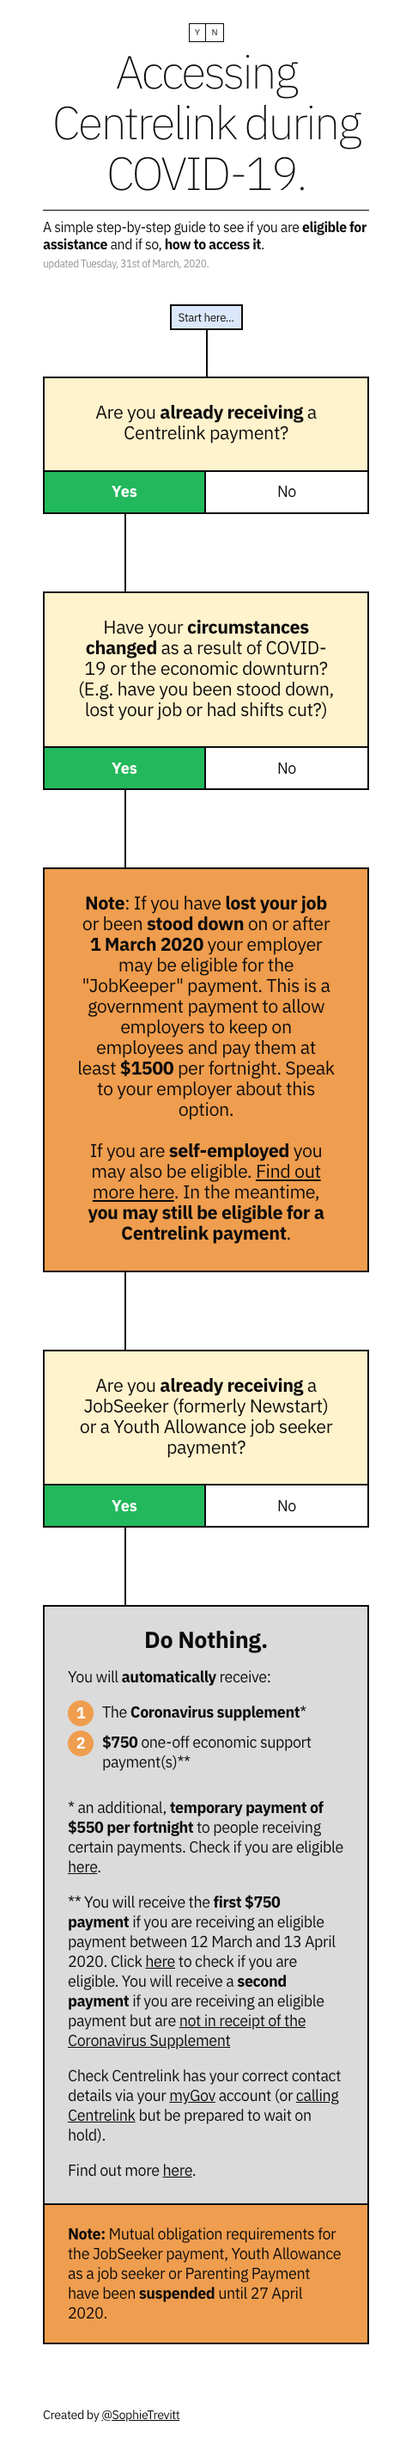
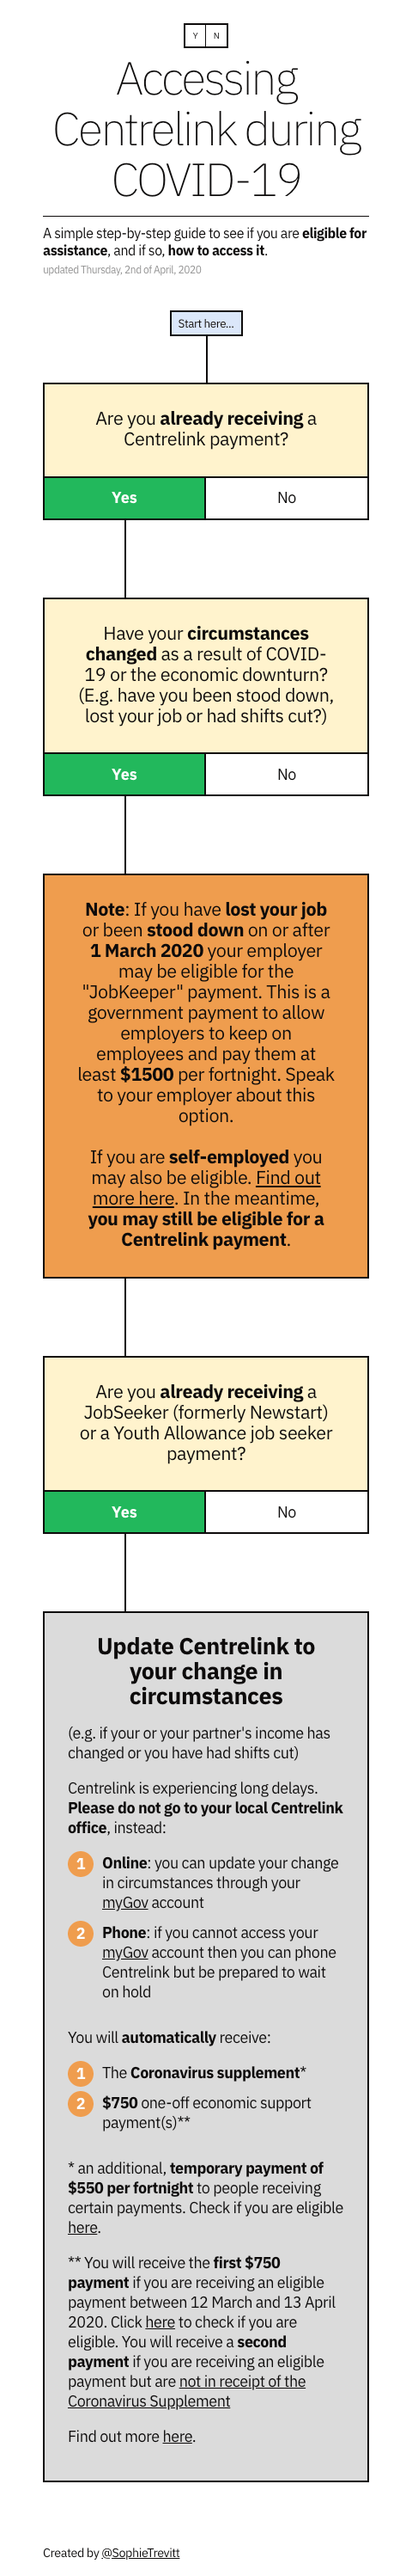
further updates

diff --git a/index.html b/index.html
@@ -17,7 +17,6 @@
 	<meta property="og:description" content="A simple step-by-step guide to see if you are eligible for assistance, and if so, how to access it.">
     <meta property="og:image" content="https://canigetcentrelink.com.au/share.png">
     <link href="https://fonts.googleapis.com/css2?family=IBM+Plex+Sans:wght@200;400;700&display=hide" rel="stylesheet">
-    <script src="https://code.jquery.com/jquery-3.4.1.min.js" integrity="sha256-CSXorXvZcTkaix6Yvo6HppcZGetbYMGWSFlBw8HfCJo=" crossorigin="anonymous"></script>
 	<style>
 *, 
 *:before, 
@@ -62,19 +61,18 @@ margin-bottom:2rem}
 
 .icon {
 display:flex;
-width:41px;
+width:52px;
 margin:1rem auto .25rem;
-border:1px solid #0D0B0B;
+border:2px solid #0D0B0B;
 text-align:center;
 font-size:10px;
 opacity:1}
 
 .icon span {
-width:20px;
-height:20px;
-line-height:20px;
-background:#fff;
-font-weight:400}
+width:25px;
+height:25px;
+line-height:25px;
+background:#fff}
 
 .icon span:first-child {
 border-right:1px solid #0D0B0B}
@@ -147,7 +145,6 @@ background:#DBE7FA;
 font-size:.75rem;
 z-index:1;
 width:85px;
-font-weight:400;
 white-space:nowrap}
 
 .q p {
@@ -157,7 +154,6 @@ padding:1.5rem 2rem 1.75rem;
 background:#FFF3CD;
 border:2px solid #0D0B0B;
 z-index:1;
-font-weight:400;
 line-height:1.15}
 
 .q p.msg {
@@ -302,6 +298,7 @@ margin:.5rem 0;
 display:none;
 border:2px solid #0D0B0B;
 padding:.75rem;
+font-size:.75rem;
 text-decoration:none;
 text-transform:uppercase;
 transition:background .25s}
@@ -317,18 +314,19 @@ color:#fff;
 background:#0D0B0B}
 
 .reset {
-font-size:.75rem}
-
-.reset a {
-text-decoration:underline}
+font-size:.75rem;
+opacity:.5}
 
 .reset a:hover {
-opacity:.5}
+text-decoration:underline}
 
 footer {
 position:relative;
 margin-top:-4rem;
 font-size:.8rem}
+
+[data-state="begun"] footer {
+margin-top:0rem}
 
 footer p {
 margin-bottom:0}
@@ -344,7 +342,7 @@ margin-bottom:0}
 
 }
 
-@media all and (max-width:360px){
+@media all and (max-width:395px){
 
     h1 {
     font-size:2.5rem}
@@ -365,6 +363,9 @@ margin-bottom:0}
     footer {
     font-size:.7rem}
 
+    footer span {
+    display:none}
+
 }
 
     </style>
@@ -381,7 +382,7 @@ margin-bottom:0}
 
             <p>A simple step-by-step guide to see if you are <b>eligible for assistance</b>, and if so, <b>how to access it</b>.</p>
 
-            <p class="updated">updated Wednesday, 1st of April, 2020</p>
+            <p class="updated">updated Thursday, 2nd of April, 2020</p>
 
         </header>
 
@@ -487,9 +488,20 @@ margin-bottom:0}
 
             </div>
 
+
+
             <div class="results" data-id="s-y-y-y" data-end="yes">
 
-                <h3>Do Nothing.</h3>
+                <h3>Update Centrelink to your change in circumstances</h3>
+
+                <p>(e.g. if your or your partner's income has changed or you have had shifts cut)</p>  
+
+                <p>Centrelink is experiencing long delays. <b>Please do not go to your local Centrelink office</b>, instead:</p>
+
+                <ol>
+                    <li><b>Online</b>: you can update your change in circumstances through your <a href="https://my.gov.au/">myGov</a> account</li>
+                    <li><b>Phone</b>: if you cannot access your <a href="https://my.gov.au/">myGov</a> account then you can phone Centrelink but be prepared to wait on hold</li>
+                </ol>
 
                 <p>You will <b>automatically</b> receive:</p>
 
@@ -502,15 +514,7 @@ margin-bottom:0}
 
                 <p>** You will receive the <b>first $750 payment</b> if you are receiving an eligible payment between 12 March and 13 April 2020. Click <a href="https://www.dss.gov.au/about-the-department/coronavirus-covid-19-information-and-support#fir">here</a> to check if you are eligible. You will receive a <b>second payment</b> if you are receiving an eligible payment but are <a href="https://www.dss.gov.au/about-the-department/coronavirus-covid-19-information-and-support#sec)">not in receipt of the Coronavirus Supplement</a></p>
 
-                <p>Check Centrelink has your correct contact details via your <a href="https://my.gov.au">myGov</a> account (or <a href="https://www.servicesaustralia.gov.au/individuals/contact-us/phone-us#centrelink">calling Centrelink</a> but be prepared to wait on hold).</p>
-
                 <p>Find out more <a href="http://ejaustralia.org.au/self-help/">here</a>.</p>
-
-                <div class="flag">
-
-                    <p>Note: <b>Mutual obligation</b> requirements for the JobSeeker payment, Youth Allowance as a job seeker or Parenting Payment have been <b>suspended</b> until 27 April 2020.</p> 
-
-                </div>
 
             </div> 
 
@@ -577,7 +581,7 @@ margin-bottom:0}
         <footer>
             
             <p>Go to <a href="https://www.servicesaustralia.gov.au/individuals/centrelink">Centrelink</a> →<br>
-            More help & info available at <a href="http://ejaustralia.org.au/self-help/">Economic Justice Australia</a> →<br>
+            More <span>help & info available</span> at <a href="http://ejaustralia.org.au/self-help/">Economic Justice Australia</a> →<br>
             Latest COVID-19 info from the <a href="https://www.health.gov.au/news/health-alerts/novel-coronavirus-2019-ncov-health-alert">Department of Health</a> →</p>
             <p>Created by <a href="https://twitter.com/SophieTrevitt">@SophieTrevitt</a></p>
 
@@ -589,8 +593,7 @@ margin-bottom:0}
 
 'use strict';
 
-var $top = $('html, body'),
-    $body = document.querySelector('body'),
+var $body = document.querySelector('body'),
     $start = document.querySelector('[data-id="s"]'),
     $questions = document.querySelectorAll('.q'),
     $download = document.querySelector('.download'),
@@ -627,7 +630,8 @@ document
                 $next = document.querySelector('[data-id="'+next+'"]')
 
             // SHOW
-            $next.setAttribute('data-show','yes')
+            $next.setAttribute('data-show','yes');
+            $body.setAttribute('data-state','begun');
 
             if ($next.getAttribute('class') == 'results'){
 
@@ -644,12 +648,9 @@ document
             } 
 
             //CLEAN UP NOT CURRENT!
-            cleanOtherOptions(next)
-
-            //SCROLL TO
-            $top.animate({ 
-                scrollTop: getOffsetTop($next)-40 
-            }, 750)
+           cleanOtherOptions(next)
+           scroll.animateScroll(getOffsetTop($next)-0)
+           
     })
 })
 
@@ -671,6 +672,8 @@ document
     .querySelector('.reset a')
     .addEventListener('click', function(e){
 
+        scroll.animateScroll(0)
+
         document
             .querySelectorAll('[data-show="yes"]')
             .forEach(function ($node,i){
@@ -680,24 +683,24 @@ document
 
         $body.removeAttribute('data-result');
         $body.removeAttribute('data-end');
+        $body.removeAttribute('data-state')
         $start.setAttribute('class','q');
-
-        $top.animate({ 
-            scrollTop: 0 
-        }, 250)
+        
 })
 
+
+/*! smooth-scroll v16.1.2 | (c) 2020 Chris Ferdinandi | MIT License | http://github.com/cferdinandi/smooth-scroll */
+window.Element&&!Element.prototype.closest&&(Element.prototype.closest=function(e){var t,n=(this.document||this.ownerDocument).querySelectorAll(e),o=this;do{for(t=n.length;0<=--t&&n.item(t)!==o;);}while(t<0&&(o=o.parentElement));return o}),(function(){if("function"==typeof window.CustomEvent)return;function e(e,t){t=t||{bubbles:!1,cancelable:!1,detail:void 0};var n=document.createEvent("CustomEvent");return n.initCustomEvent(e,t.bubbles,t.cancelable,t.detail),n}e.prototype=window.Event.prototype,window.CustomEvent=e})(),(function(){for(var r=0,e=["ms","moz","webkit","o"],t=0;t<e.length&&!window.requestAnimationFrame;++t)window.requestAnimationFrame=window[e[t]+"RequestAnimationFrame"],window.cancelAnimationFrame=window[e[t]+"CancelAnimationFrame"]||window[e[t]+"CancelRequestAnimationFrame"];window.requestAnimationFrame||(window.requestAnimationFrame=function(e,t){var n=(new Date).getTime(),o=Math.max(0,16-(n-r)),a=window.setTimeout((function(){e(n+o)}),o);return r=n+o,a}),window.cancelAnimationFrame||(window.cancelAnimationFrame=function(e){clearTimeout(e)})})(),(function(e,t){"function"==typeof define&&define.amd?define([],(function(){return t(e)})):"object"==typeof exports?module.exports=t(e):e.SmoothScroll=t(e)})("undefined"!=typeof global?global:"undefined"!=typeof window?window:this,(function(q){"use strict";var I={ignore:"[data-scroll-ignore]",header:null,topOnEmptyHash:!0,speed:500,speedAsDuration:!1,durationMax:null,durationMin:null,clip:!0,offset:0,easing:"easeInOutCubic",customEasing:null,updateURL:!0,popstate:!0,emitEvents:!0},F=function(){var n={};return Array.prototype.forEach.call(arguments,(function(e){for(var t in e){if(!e.hasOwnProperty(t))return;n[t]=e[t]}})),n},r=function(e){"#"===e.charAt(0)&&(e=e.substr(1));for(var t,n=String(e),o=n.length,a=-1,r="",i=n.charCodeAt(0);++a<o;){if(0===(t=n.charCodeAt(a)))throw new InvalidCharacterError("Invalid character: the input contains U+0000.");1<=t&&t<=31||127==t||0===a&&48<=t&&t<=57||1===a&&48<=t&&t<=57&&45===i?r+="\\"+t.toString(16)+" ":r+=128<=t||45===t||95===t||48<=t&&t<=57||65<=t&&t<=90||97<=t&&t<=122?n.charAt(a):"\\"+n.charAt(a)}return"#"+r},L=function(){return Math.max(document.body.scrollHeight,document.documentElement.scrollHeight,document.body.offsetHeight,document.documentElement.offsetHeight,document.body.clientHeight,document.documentElement.clientHeight)},x=function(e){return e?(t=e,parseInt(q.getComputedStyle(t).height,10)+e.offsetTop):0;var t},H=function(e,t,n,o){if(t.emitEvents&&"function"==typeof q.CustomEvent){var a=new CustomEvent(e,{bubbles:!0,detail:{anchor:n,toggle:o}});document.dispatchEvent(a)}};return function(o,e){var A,a,O,C,M={};M.cancelScroll=function(e){cancelAnimationFrame(C),C=null,e||H("scrollCancel",A)},M.animateScroll=function(i,c,e){M.cancelScroll();var s=F(A||I,e||{}),u="[object Number]"===Object.prototype.toString.call(i),t=u||!i.tagName?null:i;if(u||t){var l=q.pageYOffset;s.header&&!O&&(O=document.querySelector(s.header));var n,o,a,m,r,d,f,h,p=x(O),g=u?i:(function(e,t,n,o){var a=0;if(e.offsetParent)for(;a+=e.offsetTop,e=e.offsetParent;);return a=Math.max(a-t-n,0),o&&(a=Math.min(a,L()-q.innerHeight)),a})(t,p,parseInt("function"==typeof s.offset?s.offset(i,c):s.offset,10),s.clip),y=g-l,v=L(),w=0,S=(n=y,a=(o=s).speedAsDuration?o.speed:Math.abs(n/1e3*o.speed),o.durationMax&&a>o.durationMax?o.durationMax:o.durationMin&&a<o.durationMin?o.durationMin:parseInt(a,10)),E=function(e,t){var n,o,a,r=q.pageYOffset;if(e==t||r==t||(l<t&&q.innerHeight+r)>=v)return M.cancelScroll(!0),o=t,a=u,0===(n=i)&&document.body.focus(),a||(n.focus(),document.activeElement!==n&&(n.setAttribute("tabindex","-1"),n.focus(),n.style.outline="none"),q.scrollTo(0,o)),H("scrollStop",s,i,c),!(C=m=null)},b=function(e){var t,n,o;m||(m=e),w+=e-m,d=l+y*(n=r=1<(r=0===S?0:w/S)?1:r,"easeInQuad"===(t=s).easing&&(o=n*n),"easeOutQuad"===t.easing&&(o=n*(2-n)),"easeInOutQuad"===t.easing&&(o=n<.5?2*n*n:(4-2*n)*n-1),"easeInCubic"===t.easing&&(o=n*n*n),"easeOutCubic"===t.easing&&(o=--n*n*n+1),"easeInOutCubic"===t.easing&&(o=n<.5?4*n*n*n:(n-1)*(2*n-2)*(2*n-2)+1),"easeInQuart"===t.easing&&(o=n*n*n*n),"easeOutQuart"===t.easing&&(o=1- --n*n*n*n),"easeInOutQuart"===t.easing&&(o=n<.5?8*n*n*n*n:1-8*--n*n*n*n),"easeInQuint"===t.easing&&(o=n*n*n*n*n),"easeOutQuint"===t.easing&&(o=1+--n*n*n*n*n),"easeInOutQuint"===t.easing&&(o=n<.5?16*n*n*n*n*n:1+16*--n*n*n*n*n),t.customEasing&&(o=t.customEasing(n)),o||n),q.scrollTo(0,Math.floor(d)),E(d,g)||(C=q.requestAnimationFrame(b),m=e)};0===q.pageYOffset&&q.scrollTo(0,0),f=i,h=s,u||history.pushState&&h.updateURL&&history.pushState({smoothScroll:JSON.stringify(h),anchor:f.id},document.title,f===document.documentElement?"#top":"#"+f.id),"matchMedia"in q&&q.matchMedia("(prefers-reduced-motion)").matches?q.scrollTo(0,Math.floor(g)):(H("scrollStart",s,i,c),M.cancelScroll(!0),q.requestAnimationFrame(b))}};var t=function(e){if(!e.defaultPrevented&&!(0!==e.button||e.metaKey||e.ctrlKey||e.shiftKey)&&"closest"in e.target&&(a=e.target.closest(o))&&"a"===a.tagName.toLowerCase()&&!e.target.closest(A.ignore)&&a.hostname===q.location.hostname&&a.pathname===q.location.pathname&&/#/.test(a.href)){var t,n;try{t=r(decodeURIComponent(a.hash))}catch(e){t=r(a.hash)}if("#"===t){if(!A.topOnEmptyHash)return;n=document.documentElement}else n=document.querySelector(t);(n=n||"#top"!==t?n:document.documentElement)&&(e.preventDefault(),(function(e){if(history.replaceState&&e.updateURL&&!history.state){var t=q.location.hash;t=t||"",history.replaceState({smoothScroll:JSON.stringify(e),anchor:t||q.pageYOffset},document.title,t||q.location.href)}})(A),M.animateScroll(n,a))}},n=function(e){if(null!==history.state&&history.state.smoothScroll&&history.state.smoothScroll===JSON.stringify(A)){var t=history.state.anchor;"string"==typeof t&&t&&!(t=document.querySelector(r(history.state.anchor)))||M.animateScroll(t,null,{updateURL:!1})}};M.destroy=function(){A&&(document.removeEventListener("click",t,!1),q.removeEventListener("popstate",n,!1),M.cancelScroll(),C=O=a=A=null)};return (function(){if(!("querySelector"in document&&"addEventListener"in q&&"requestAnimationFrame"in q&&"closest"in q.Element.prototype))throw"Smooth Scroll: This browser does not support the required JavaScript methods and browser APIs.";M.destroy(),A=F(I,e||{}),O=A.header?document.querySelector(A.header):null,document.addEventListener("click",t,!1),A.updateURL&&A.popstate&&q.addEventListener("popstate",n,!1)})(),M}}));
+
 /* (c) 2017 Chris Ferdinandi, MIT License, https://gomakethings.com */
-var getOffsetTop = function (elem) {
-	var location = 0;
-	if (elem.offsetParent) {
-		while (elem) {
-			location += elem.offsetTop;
-			elem = elem.offsetParent;
-		}
-	}
-	return location >= 0 ? location : 0;
-};
+var getOffsetTop=function(f){var t=0;if(f.offsetParent)for(;f;)t+=f.offsetTop,f=f.offsetParent;return t>=0?t:0};
+
+var scroll = new SmoothScroll(null, {
+   speed: 1000,
+   easing: 'easeInOutQuad',
+   clip: true,
+   speedAsDuration: true
+})
 
 </script>
 </body>
